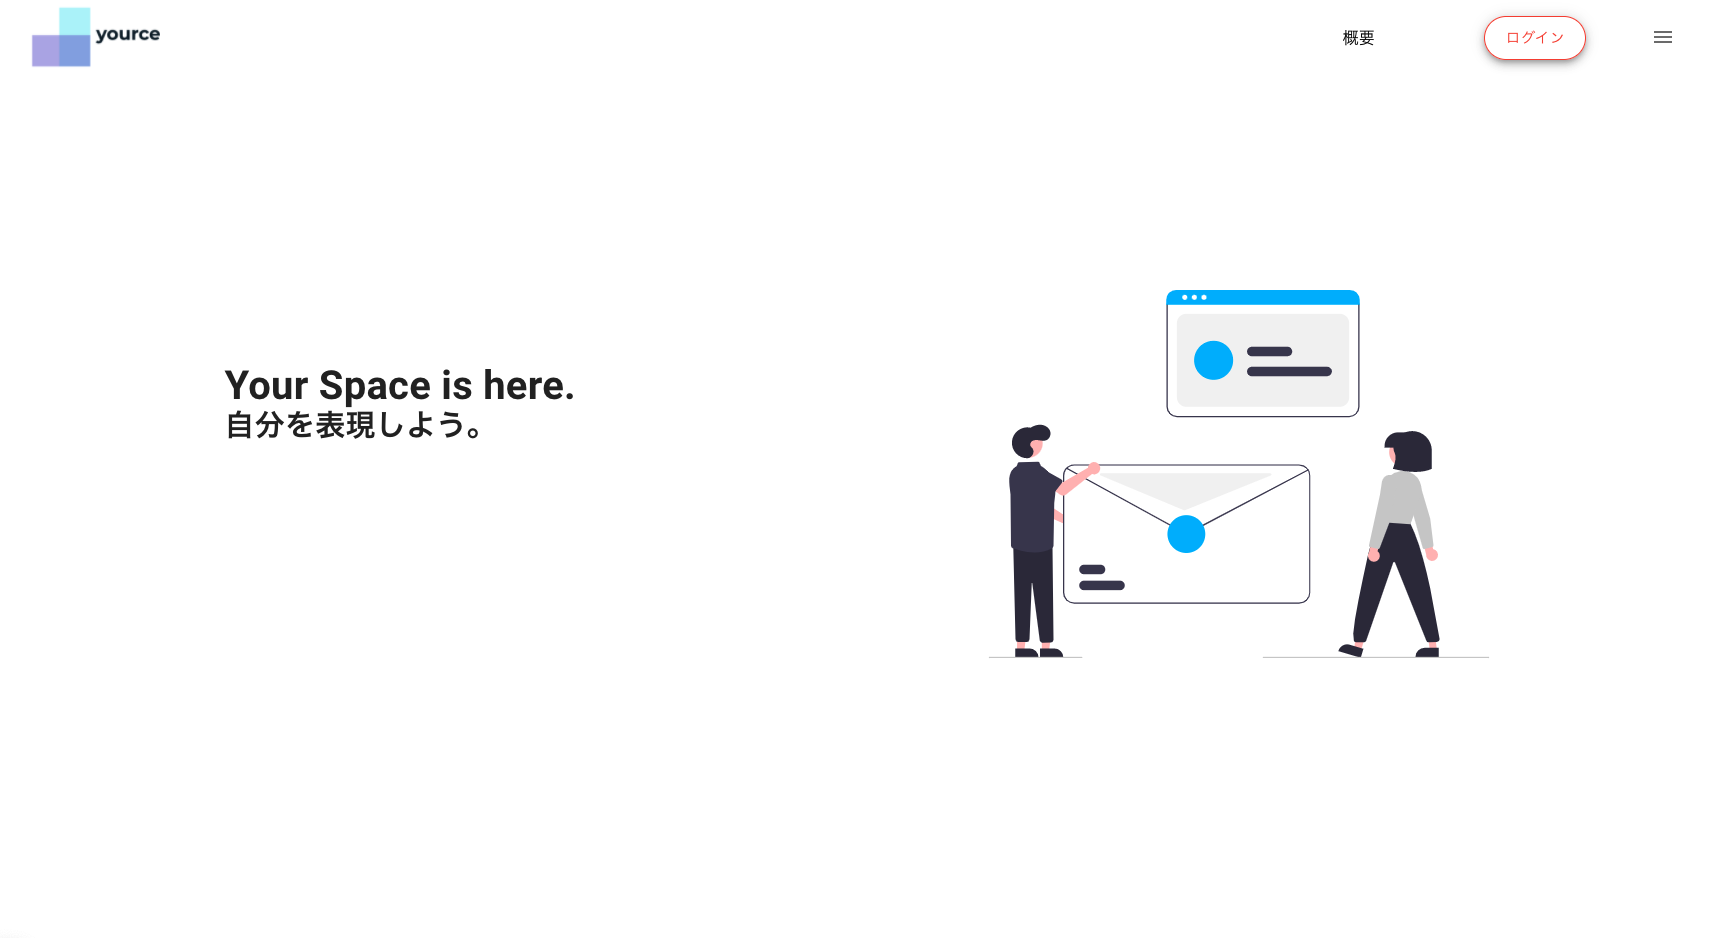
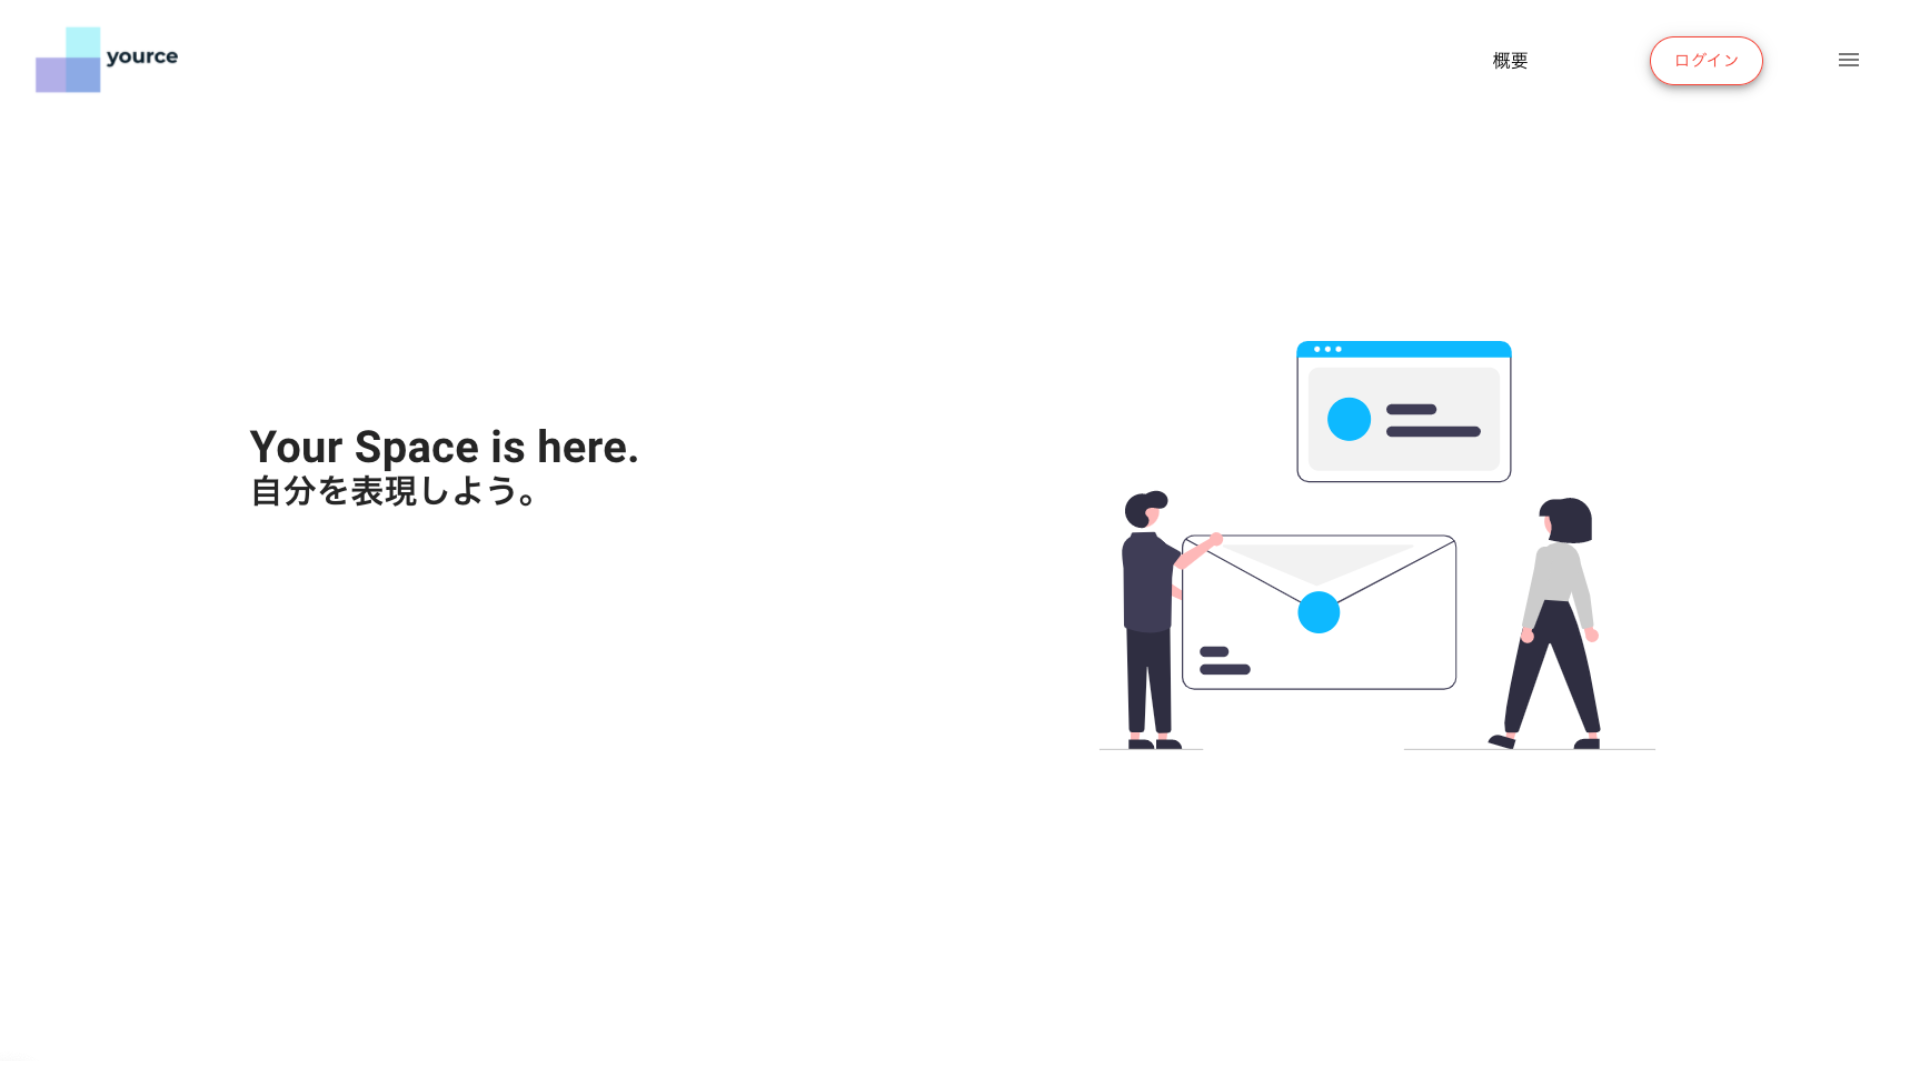
ナビゲーションバー作った/worksいじった/topに戻るボタン作った/jqueryでいろいろした

diff --git a/src/scss/nav.scss b/src/scss/nav.scss
@@ -1,0 +1,154 @@
+@media screen and (max-width: 800px) {
+    //タブレット以下にはナビゲーションメニューは表示させない
+    .nav{
+        display:none;
+    }
+    //代わりにタブレット用の
+    .nav_sp{
+        display: flex;
+        border: 1px solid rgba(0, 0, 0, 0.17);
+        background-color: white;
+        margin: 0 auto;
+        border-radius: 7px;
+        box-shadow: 0px 0px 16px -6px rgba(0, 0, 0, 0.6);
+        position: fixed;
+        top: -100px;
+        width: 90%;
+        height: 50px;
+        transition: 0.5s;
+
+        .nav_icon {
+            text-decoration: none;
+            margin: 5px auto 5px auto;
+            width: 40px;
+            height: 40px;
+            border-radius: 50%;
+            background-color: #486d94;
+            display: flex;
+            align-items: center;
+            justify-content: center;
+
+            i {
+                color: white;
+            }
+
+            .nav_link {
+                display: none;
+            }
+        }
+
+        .nav_link{
+            display:none;
+        }
+    }
+    //代わりにハンバーガーメニューを表示する
+    .nav_hamburger{
+        top: -100px;
+        display:flex;
+        text-align: center;
+        position: fixed;
+        justify-content: space-between;
+        width: 100%;
+        height: 50px;
+        background-color: #404040;
+
+        .nav_title{
+            margin: auto;
+            width: 100px;
+            font-size: 26px;
+            font-family: 'Cardo', serif;
+            color: white;
+        }
+        .nav_btn{
+            border:none;
+            height: 100%;
+            width: 50px;
+            background-color: transparent;
+            color: white;
+            display: flex;
+            justify-content: center;
+            align-items: center;
+        }
+
+    }
+
+    .nav_sp_appear{
+        top: 50px;
+        transition: 0.2s;
+    }
+
+    .nav_hamburger_appear{
+        top: 0;
+        transition: 0.2s;
+    }
+    .nav_hamburger_fadeout{
+        top: -100px;
+        transition: 0.2s;
+    }
+}
+@media screen and (min-width: 800px) {
+    //タブレット以上にはハンバーガーメニューは表示しない
+    .nav_hamburger{
+        display:none;
+    }
+    //代わりにナビゲーションメニューを表示する
+    .nav {
+        border: 1px solid rgba(0, 0, 0, 0.17);
+        background-color: white;
+        border-radius: 7px;
+        box-shadow: 0px 0px 16px -6px rgba(0, 0, 0, 0.6);
+        position: fixed;
+        top: 100px;
+        left: -100px;
+        width: 50px;
+
+        .nav_icon {
+            text-decoration: none;
+            margin: 5px auto 5px auto;
+            width: 40px;
+            height: 40px;
+            border-radius: 50%;
+            background-color: #486d94;
+            display: flex;
+            align-items: center;
+            justify-content: center;
+
+            i {
+                color: white;
+            }
+
+            .nav_link {
+                display: none;
+            }
+        }
+
+        .nav_icon:hover {
+            transition: 0.2s;
+            margin-left: 5px;
+            border-radius: 20px 20px 20px 20px;
+            width: 120px;
+
+            i {
+                margin-left: 5%;
+            }
+
+            .nav_link {
+                margin: 0 10px;
+                font-size: 1.2em;
+                display: block;
+                color: white;
+                transition: 0.2s;
+            }
+        }
+    }
+
+    .nav_appear {
+        left: 15px;
+        transition: 0.5s;
+    }
+
+    .nav_fadeout {
+        left: -100px;
+        transition: 0.5s;
+    }
+}

diff --git a/src/ts/index.ts b/src/ts/index.ts
@@ -14,6 +14,37 @@ import '/src/img/works/yource.png';
 import '/src/img/works/ownly.png';
 
 $(function () {
+
+    //一定以上スクロールされたらナビゲーションを表示する
+    $(window).scroll(function() {
+
+        if (window.scrollY > 100){
+            $('.btn_top').removeClass('btn_top_fadeout').addClass('btn_top_appear')
+            $('.nav').removeClass('nav_fadeout').addClass('nav_appear')
+        } else {
+            $('.btn_top').removeClass('btn_top_appear').addClass('btn_top_fadeout')
+            $('.nav').removeClass('nav_appear').addClass('nav_fadeout')
+        }
+
+        if (window.scrollY > $(window).height()){
+            $('.nav_hamburger').removeClass('nav_hamburger_fadeout').addClass('nav_hamburger_appear')
+        } else {
+            $('.nav_hamburger').removeClass('nav_hamburger_appear').addClass('nav_hamburger_fadeout')
+            $('.nav_sp').removeClass('nav_sp_appear')
+        }
+
+    });
+
+    $('.btn_top').on('click',()=>{
+        $('body, html').animate({ scrollTop: 0 }, 500);
+    }) 
+
+    $('.nav_btn').on('click',()=>{
+        $('.nav_sp').toggleClass('nav_sp_appear')
+    })
+
+
+    //works カルーセル設定
     $('.works_preview').slick({
         slidesToShow: 1,
         slidesToScroll: 1,

diff --git a/src/scss/works.scss b/src/scss/works.scss
@@ -15,14 +15,10 @@
 
 
                 img {
-                    height: 500px;
                     width: 100%;
-                    object-fit: contain;
+                    object-fit: cover;
                 }
             }
-
-
-
             a {
                 color: black;
                 text-decoration: none;
@@ -43,10 +39,7 @@
                     height: 200px;
                     width: 300px;
 
-                    object-fit: contain;
-                    // object-fit: cover;
-                    // position: absolute;
-                    // top: 0;
+                    object-fit: cover;
                 }
 
                 div {
@@ -62,6 +55,11 @@
 
 .slick-slide {
     margin: 0 10px 0 10px;
+}
+
+.slick-next:before,
+.slick-prev:before {
+    color: #404040;
 }
 
 //1000以下

diff --git a/src/scss/style.scss b/src/scss/style.scss
@@ -1,3 +1,4 @@
+@import "nav";
 @import "profile";
 @import "skill";
 @import "works";
@@ -148,17 +149,36 @@ body {
   background-color: #f5f5f5;
 }
 
-//1000以下
-@media screen and (max-width: 1000px) {
+//1450以下
+@media screen and (max-width: 1450px) {
   .section {
     padding: 0 10vw 0 10vw;
   }
 }
 
 
-//1000以上
-@media screen and (min-width:1000px) {
+//1450以上
+@media screen and (min-width:1450px) {
   .section {
     padding: 0 18vw 0 18vw;
   }
+}
+
+.btn_top{
+  position: fixed;
+  border:none;
+  right: 0;
+  bottom: -60px;
+  width: 50px;
+  height: 50px;
+  background-color: #e0e0e0;
+}
+
+.btn_top_appear{
+  bottom: 0;
+  transition: 0.5s;
+}
+.btn_top_fadeout{
+  bottom: -60px;
+  transition: 0.5s;
 }
